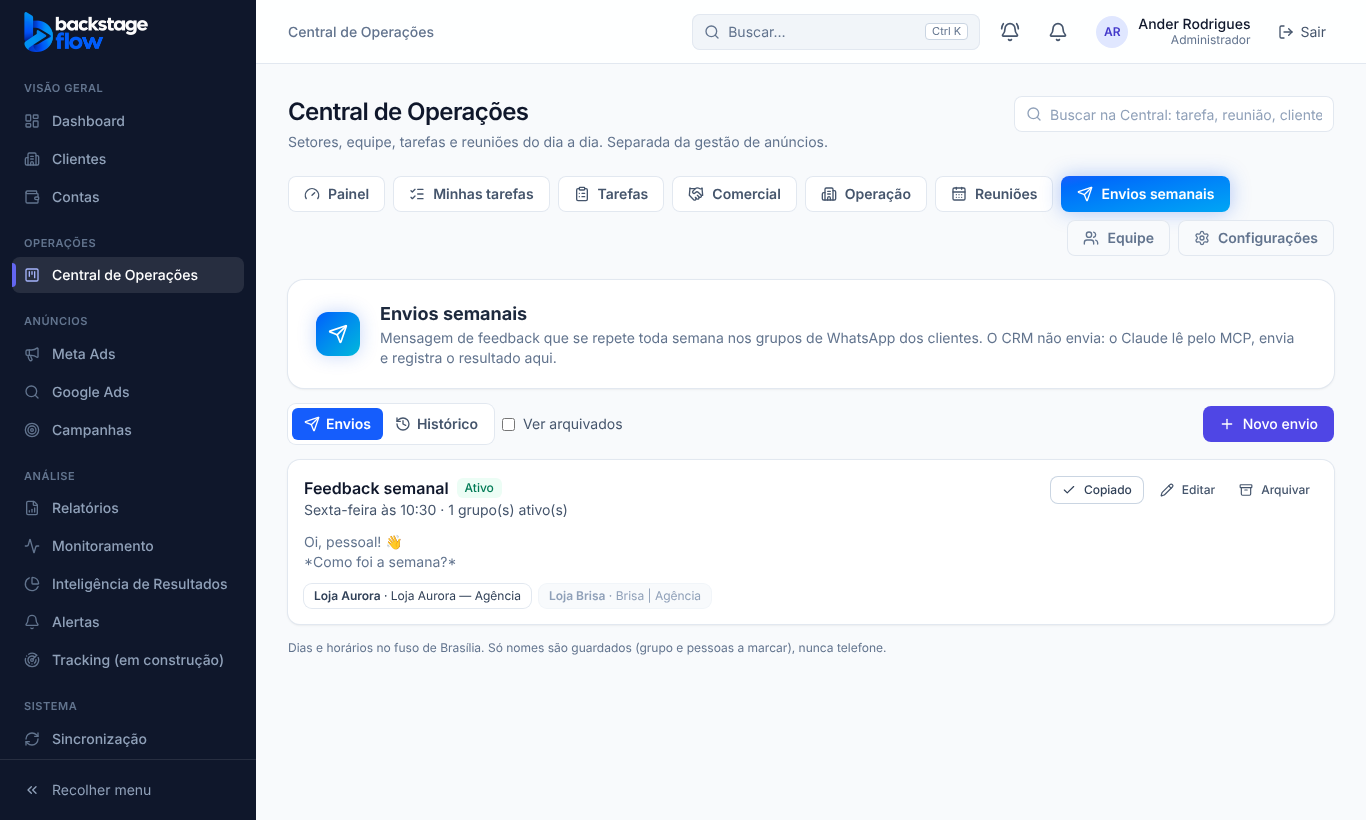
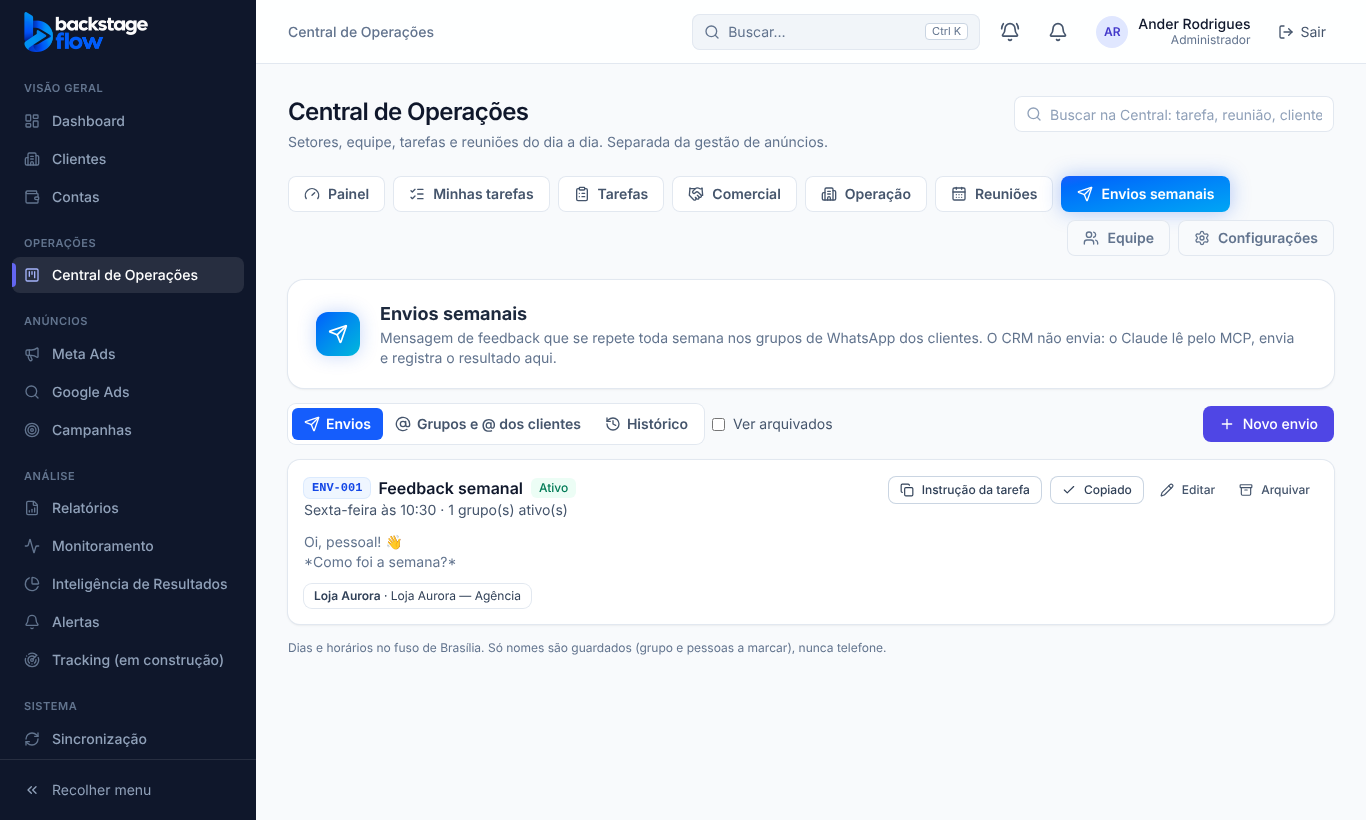
Etapa 41.5: código de cada envio (ENV-001) na instrução da tarefa; MCP 1.5.0
- ops_envios.codigo (ENV-001…, em sequência, fixo); ops_envio_list filtra por código
- MCP: backstage_list_envios aceita envio = "ENV-001" e avisa quando aquele envio não está liberado (função mcp v7)
- Tela: código no card e botão "Instrução da tarefa" por envio; instrução geral removida
- Testes SQL (41.5 novo; os de 41.x devolvem a sequência no fim), Deno, regras e navegador; documentação

Claude-Session: https://claude.ai/code/session_01A5ivfSd6VbkwRJFYwrhVNk

diff --git a/apps/web/src/features/operations/EnviosPage.tsx b/apps/web/src/features/operations/EnviosPage.tsx
@@ -1,5 +1,5 @@
 import {
-  buildEnvioCommand, cleanContacts, cleanDesligados, ENVIO_AGENT_INSTRUCTION, ENVIO_LIMITS, ENVIO_STATUS_LABELS, ENVIO_STATUSES, ENVIO_WEEKDAYS, type EnvioClienteInput, type EnvioStatus,
+  buildEnvioCommand, cleanContacts, cleanDesligados, ENVIO_LIMITS, envioAgentInstruction, ENVIO_STATUS_LABELS, ENVIO_STATUSES, ENVIO_WEEKDAYS, type EnvioClienteInput, type EnvioStatus,
   validateEnvio,
 } from "@backstage/shared";
 import { ArrowDown, ArrowUp, Archive, ArchiveRestore, AtSign, Check, Copy, History, Pencil, Plus, Search, Send, X } from "lucide-react";
@@ -233,17 +233,17 @@ function CopyCommand({ envio }: { envio: OpsEnvio }) {
   );
 }
 
-/** 41.2: a instrução fixa para colar na tarefa agendada do Claude no computador (ver a documentação da fase). */
-function CopyAgentInstruction() {
+/** 41.2/41.5: a instrução da tarefa agendada DESTE envio (leva o código dele). Ver a documentação da fase 41.5. */
+function CopyAgentInstruction({ envio }: { envio: OpsEnvio }) {
   const [copied, setCopied] = useState<"ok" | "erro" | null>(null);
   async function copy() {
-    try { await navigator.clipboard.writeText(ENVIO_AGENT_INSTRUCTION); setCopied("ok"); } catch { setCopied("erro"); }
+    try { await navigator.clipboard.writeText(envioAgentInstruction(envio.codigo, envio.nome)); setCopied("ok"); } catch { setCopied("erro"); }
     setTimeout(() => setCopied(null), 2500);
   }
   return (
-    <Button variant="secondary" onClick={copy} aria-label="Copiar instrução da tarefa agendada">
-      {copied === "ok" ? <Check className="size-4" aria-hidden /> : <Copy className="size-4" aria-hidden />}
-      {copied === "ok" ? "Instrução copiada" : copied === "erro" ? "Não deu para copiar" : "Instrução da tarefa agendada"}
+    <Button variant="secondary" className="px-3 py-1.5 text-xs" onClick={copy} aria-label={`Copiar instrução da tarefa de ${envio.nome}`}>
+      {copied === "ok" ? <Check className="size-3.5" aria-hidden /> : <Copy className="size-3.5" aria-hidden />}
+      {copied === "ok" ? "Instrução copiada" : copied === "erro" ? "Não deu para copiar" : "Instrução da tarefa"}
     </Button>
   );
 }
@@ -265,6 +265,8 @@ function EnvioCard({ envio, onEdit }: { envio: OpsEnvio; onEdit: () => void }) {
       <div className="flex flex-wrap items-start gap-3">
         <div className="min-w-0 flex-1">
           <div className="flex flex-wrap items-center gap-2">
+            <span className="rounded-md bg-blue-50 px-2 py-0.5 font-mono text-xs font-semibold text-blue-700 ring-1 ring-blue-100" data-testid="envio-codigo"
+              title="Identificação do envio: vai na instrução da tarefa agendada">{envio.codigo}</span>
             <h3 className="font-semibold text-slate-900">{envio.nome}</h3>
             {arquivado ? <Badge>Arquivado</Badge> : envio.ativo ? <Badge tone="success">Ativo</Badge> : <Badge tone="warning">Pausado</Badge>}
             {!arquivado && sit && <Badge tone={sit.tone}>{sit.label}</Badge>}
@@ -276,6 +278,7 @@ function EnvioCard({ envio, onEdit }: { envio: OpsEnvio; onEdit: () => void }) {
             <Button className="px-3 py-1.5 text-xs" variant={envio.situacao_hoje === "aguardando_aprovacao" ? "primary" : "secondary"} onClick={() => setReviewing(true)}
               aria-label={`Revisar e aprovar ${envio.nome}`}>Revisar e aprovar</Button>
           )}
+          {!arquivado && <CopyAgentInstruction envio={envio} />}
           {!arquivado && <CopyCommand envio={envio} />}
           {!arquivado && <Button variant="ghost" className="px-2 py-1 text-xs" onClick={onEdit} aria-label={`Editar ${envio.nome}`}><Pencil className="size-3.5" aria-hidden /> Editar</Button>}
           <Button variant="ghost" className="px-2 py-1 text-xs" onClick={toggleArchive} loading={archive.isPending} aria-label={`${arquivado ? "Desarquivar" : "Arquivar"} ${envio.nome}`}>
@@ -540,7 +543,6 @@ export function EnviosPage() {
         {view === "envios" && <label className="flex items-center gap-2 text-sm text-slate-600"><input type="checkbox" checked={arquivados} onChange={(e) => setArquivados(e.target.checked)} /> Ver arquivados</label>}
         {view === "envios" && !arquivados && (
           <div className="ml-auto flex flex-wrap gap-2">
-            <CopyAgentInstruction />
             <Button onClick={() => setEditing(null)} disabled={ctx.loading}><Plus className="size-4" aria-hidden /> Novo envio</Button>
           </div>
         )}

diff --git a/supabase/functions/mcp/envios_tools.ts b/supabase/functions/mcp/envios_tools.ts
@@ -25,6 +25,8 @@ interface EnvioCliente {
 }
 interface Envio {
   id: string;
+  /** 41.5: identificação curta (ENV-001). */
+  codigo?: string;
   nome: string;
   mensagem: string;
   dia_semana: number;
@@ -51,6 +53,7 @@ function envioOut(e: Envio, soPendentes: boolean) {
   const grupos = e.clientes.filter((c) => c.ativo && (!soPendentes || !c.ja_enviado_nesta_semana));
   return {
     envio_id: e.id,
+    codigo: e.codigo ?? null,
     nome: e.nome,
     quando: `${WEEKDAYS[e.dia_semana]} às ${e.horario} (Brasília)`,
     versao: e.versao,
@@ -84,20 +87,35 @@ export const ENVIO_TOOLS: ToolSpec[] = [
   {
     name: "backstage_list_envios",
     title: "Envios semanais (mensagens para grupos de WhatsApp)",
-    description: "Lista os envios semanais ativos: mensagem, dia e horário, situação de hoje (aprovado ou não), e para cada grupo ativo o nome exato do grupo e quem marcar, na ordem. "
+    description: "Lista os envios semanais ativos: código (ENV-001), mensagem, dia e horário, situação de hoje (aprovado ou não), e para cada grupo ativo o nome exato do grupo e quem marcar, na ordem. "
+      + "Use envio = \"ENV-001\" para trazer só aquele envio (é o que a tarefa agendada de cada envio faz). "
       + "Use liberados_agora = true para receber só o que está aprovado e no horário, e só os grupos que ainda não receberam nesta semana (econômico).",
-    input: { liberados_agora: z.boolean().optional().describe("true = só o que pode ser enviado agora (aprovado nesta semana e no horário).") },
+    input: {
+      envio: z.string().trim().min(1).max(60).optional().describe("Código do envio (ex.: ENV-001). Com ele, só esse envio."),
+      liberados_agora: z.boolean().optional().describe("true = só o que pode ser enviado agora (aprovado nesta semana e no horário)."),
+    },
     allowed: has("ops.envios"),
     async run(ctx, a) {
       const liberados = a.liberados_agora === true;
-      const r = (await ctx.data.opsRpc("ops_envio_list", { f: { so_ativos: true } })) as { hoje?: { data?: string; hora?: string }; envios?: Envio[] } | null;
-      const envios = (r?.envios ?? []).filter((e) => !liberados || e.pode_enviar_agora);
+      const codigo = typeof a.envio === "string" ? a.envio.trim().toUpperCase() : "";
+      const r = (await ctx.data.opsRpc("ops_envio_list", { f: { so_ativos: true, ...(codigo ? { codigo } : {}) } })) as
+        { hoje?: { data?: string; hora?: string }; envios?: Envio[] } | null;
+      const todos = r?.envios ?? [];
+      const envios = todos.filter((e) => !liberados || e.pode_enviar_agora);
       const out = envios.map((e) => envioOut(e, liberados)).filter((e) => !liberados || e.grupos.length > 0);
+      let aviso: string | undefined;
+      if (codigo && todos.length === 0) aviso = `Envio ${codigo} não encontrado, pausado ou arquivado. Não envie nada.`;
+      else if (liberados && out.length === 0) {
+        aviso = codigo && todos[0] && todos[0].pode_enviar_agora
+          ? `Todos os grupos do envio ${codigo} já receberam nesta semana. Não envie nada.`
+          : codigo && todos[0] ? `O envio ${codigo} não está liberado agora (${SITUACAO[todos[0].situacao_hoje] ?? todos[0].situacao_hoje}). Não envie nada.`
+          : "Nada liberado para enviar agora. Não envie nada.";
+      }
       return {
         agora_em_brasilia: r?.hoje ? `${r.hoje.data} ${r.hoje.hora}` : null,
         total: out.length,
         envios: out,
-        ...(liberados && out.length === 0 ? { aviso: "Nada liberado para enviar agora. Não envie nada." } : {}),
+        ...(aviso ? { aviso } : {}),
         como_enviar: COMO_ENVIAR,
         tela: link(),
       };

diff --git a/supabase/functions/mcp/mcp_test.ts b/supabase/functions/mcp/mcp_test.ts
@@ -159,7 +159,13 @@ function fakeData(user: Caller, opts: { slow?: boolean; broken?: boolean } = {},
       }
       if (name === "ops_meeting_save") return Promise.resolve(args.p_id ?? MEETING);
       if (name === "ops_meeting_item_to_task" || name === "ops_meeting_item_add") return Promise.resolve(TASK);
-      if (name === "ops_envio_list") return Promise.resolve({ hoje: { data: "2026-11-02", hora: "10:05" }, envios: [envioFake(ENVIO_OK, "Feedback", true), envioFake(ENVIO_ESPERA, "Outro", false)] });
+      if (name === "ops_envio_list") {
+        // 41.5: filtro pelo código do envio (como o banco)
+        const codigo = ((args.f as Record<string, unknown> | undefined)?.codigo as string | undefined) ?? "";
+        const envios = [{ ...envioFake(ENVIO_OK, "Feedback", true), codigo: "ENV-001" }, { ...envioFake(ENVIO_ESPERA, "Outro", false), codigo: "ENV-002" }]
+          .filter((e) => !codigo || e.codigo === codigo);
+        return Promise.resolve({ hoje: { data: "2026-11-02", hora: "10:05" }, envios });
+      }
       if (name === "ops_envio_get") return Promise.resolve(args.p_id === ENVIO_OK ? envioFake(ENVIO_OK, "Feedback", true) : null);
       if (name === "ops_envio_execucao_add") {
         return args.p_status === "enviado" && args.p_envio === ENVIO_ESPERA
@@ -263,7 +269,7 @@ Deno.test("status: sem segredos; banco fora do ar aparece como indisponível", a
   const s = json(await client.callTool({ name: "backstage_status", arguments: {} }));
   assertEquals(s.sistema, "Backstage Flow");
   assertEquals(s.banco.estado, "funcionando");
-  assertEquals(s.servidor_mcp.versao, "1.4.0");
+  assertEquals(s.servidor_mcp.versao, "1.5.0");
   assert(!/key|secret|token|senha|password/i.test(JSON.stringify(s)), "sem segredos");
   assertEquals(logs.at(-1)?.tool, "backstage_status");
   assertEquals(logs.at(-1)?.ok, true);
@@ -652,6 +658,20 @@ Deno.test("Envios semanais: só o liberado (aprovado e no horário), grupos pend
   assert(!names.some((n: string) => /aprov|decid/.test(n)), "aprovar é só na tela do CRM");
   const cap = json(await client.callTool({ name: "backstage_capabilities", arguments: {} }));
   assert(cap.modulos_liberados_no_crm.includes("Envios semanais (grupos de WhatsApp)"));
+  await client.close();
+});
+
+Deno.test("Envios semanais (41.5): a tarefa de cada envio busca só o código dela", async () => {
+  const central = newCentral();
+  const { client } = await connect("tok-admin", {}, central);
+  const um = json(await client.callTool({ name: "backstage_list_envios", arguments: { envio: "env-001", liberados_agora: true } }));
+  assertEquals([um.total, um.envios[0].codigo, um.envios[0].envio_id], [1, "ENV-001", ENVIO_OK]);
+  assertEquals((central.calls.filter((c) => c.name === "ops_envio_list").at(-1)!.args.f as Record<string, unknown>).codigo, "ENV-001");
+  const espera = json(await client.callTool({ name: "backstage_list_envios", arguments: { envio: "ENV-002", liberados_agora: true } }));
+  assertEquals(espera.total, 0);
+  assertMatch(espera.aviso, /ENV-002 não está liberado agora.*Não envie nada/);
+  const nada = json(await client.callTool({ name: "backstage_list_envios", arguments: { envio: "ENV-999", liberados_agora: true } }));
+  assertMatch(nada.aviso, /ENV-999 não encontrado/);
   await client.close();
 });
 

diff --git a/packages/shared/src/operations/envios.ts b/packages/shared/src/operations/envios.ts
@@ -145,18 +145,21 @@ export function parseWhatsApp(text: string): WaSegment[][] {
 }
 
 /**
- * Etapa 41.2: instrução fixa da tarefa agendada no computador da pessoa (app do Claude + Claude no Chrome + WhatsApp Web
- * + conector do Backstage Flow). Curta e sempre igual: se não houver nada liberado, para na primeira consulta (gasta pouco).
+ * Etapa 41.2/41.5: instrução da tarefa agendada no computador da pessoa (app do Claude + Claude no Chrome + WhatsApp Web
+ * + conector do Backstage Flow). Uma tarefa por envio: a instrução leva o código do envio (ENV-001) e só trata dele.
+ * Curta: se o envio não estiver liberado, para na primeira consulta (gasta pouco). O conteúdo vem sempre do CRM.
  */
-export const ENVIO_AGENT_INSTRUCTION = [
-  "Você é o agente dos Envios semanais do Backstage Flow. Siga exatamente estes passos:",
-  "1. Chame a ferramenta backstage_list_envios com liberados_agora = true.",
-  "2. Se a lista vier vazia (total 0), responda apenas \"Nada liberado para enviar agora\" e pare. Não abra o navegador.",
-  "3. Para cada envio da lista e cada grupo dele: abra o WhatsApp Web (web.whatsapp.com) no Chrome, procure o grupo pelo nome exato (nome_grupo),",
-  "   cole a mensagem exatamente como veio (com as quebras de linha e emojis) e envie. Logo depois, numa SEGUNDA mensagem,",
-  "   marque as pessoas de marcar_na_ordem, na ordem: digite @ e o nome e escolha a pessoa na lista que aparece. Envie.",
-  "4. Depois de cada grupo, registre o resultado com backstage_registrar_execucao_envio (envio_id, cliente_id, status):",
-  "   enviado; falhou (com o motivo, ex.: grupo não encontrado, pessoa não encontrada para marcar); ou pulado.",
-  "5. Não envie nada que não esteja nessa lista, não responda nem leia outras conversas e não altere nada no WhatsApp.",
-  "6. No fim, responda com um resumo curto: quantos grupos enviados, falhados e pulados.",
-].join("\n");
+export function envioAgentInstruction(codigo: string, nome: string): string {
+  return [
+    `Você é o agente do envio ${codigo} ("${nome}") dos Envios semanais do Backstage Flow. Siga exatamente estes passos:`,
+    `1. Chame a ferramenta backstage_list_envios com envio = "${codigo}" e liberados_agora = true.`,
+    "2. Se a lista vier vazia (total 0), responda apenas com o aviso que veio e pare. Não abra o navegador.",
+    `3. Trate SOMENTE o envio ${codigo}. Para cada grupo dele: abra o WhatsApp Web (web.whatsapp.com) no Chrome, procure o grupo pelo nome exato (nome_grupo),`,
+    "   cole a mensagem exatamente como veio (com as quebras de linha e emojis) e envie. Logo depois, numa SEGUNDA mensagem,",
+    "   marque as pessoas de marcar_na_ordem, na ordem: digite @ e o nome e escolha a pessoa na lista que aparece. Envie.",
+    "4. Depois de cada grupo, registre o resultado com backstage_registrar_execucao_envio (envio_id, cliente_id, status):",
+    "   enviado; falhou (com o motivo, ex.: grupo não encontrado, pessoa não encontrada para marcar); ou pulado.",
+    "5. Não envie nada que não esteja nessa lista, não responda nem leia outras conversas e não altere nada no WhatsApp.",
+    `6. No fim, responda com um resumo curto do envio ${codigo}: quantos grupos enviados, falhados e pulados.`,
+  ].join("\n");
+}

diff --git a/apps/web/src/demo/mockOpsEnvios.js b/apps/web/src/demo/mockOpsEnvios.js
@@ -45,8 +45,16 @@ export function handleOpsEnvios({ db, url, parse, userId, opsPerms, res }) {
       aprovacao: a ? { decisao: a.decisao, versao_envio: a.versao_envio, decidido_em: a.decidido_em, decidido_por_nome: name(a.decidido_por), origem: a.origem, valida } : null };
   };
 
+  // 41.5: código curto do envio (ENV-001…), em sequência; envios semeados nos testes ganham o seu na primeira leitura
+  const codigoDe = (e) => {
+    if (!e.codigo) {
+      const max = Math.max(0, ...db.opsEnvios.map((x) => Number(String(x.codigo ?? "").slice(4)) || 0));
+      e.codigo = `ENV-${String(max + 1).padStart(3, "0")}`;
+    }
+    return e.codigo;
+  };
   const json = (e, soAtivos) => ({
-    ...e, ...situacao(e), criado_por_nome: name(e.criado_por), atualizado_por_nome: name(e.atualizado_por), toca_hoje: e.dia_semana === now.dow,
+    ...e, codigo: codigoDe(e), ...situacao(e), criado_por_nome: name(e.criado_por), atualizado_por_nome: name(e.atualizado_por), toca_hoje: e.dia_semana === now.dow,
     clientes: db.opsEnvioClientes.filter((c) => c.envio_id === e.id && !c.removido_em && (!soAtivos || c.ativo)).map((c) => {
       const ex = db.opsEnvioExecucoes.filter((x) => x.envio_id === e.id && x.cliente_id === c.cliente_id).sort((a, b) => b.executado_em.localeCompare(a.executado_em));
       // 41.4: grupo e @ vêm sempre da configuração atual do cliente (Grupos e @), quando existe
@@ -99,7 +107,8 @@ export function handleOpsEnvios({ db, url, parse, userId, opsPerms, res }) {
   }
   if (rpc("ops_envio_list")) {
     const f = p.f ?? {};
-    const out = db.opsEnvios.filter((e) => (f.arquivados ? e.arquivado_em : !e.arquivado_em) && (!f.so_ativos || e.ativo))
+    const cod = String(f.codigo ?? "").trim().toUpperCase();
+    const out = db.opsEnvios.filter((e) => (f.arquivados ? e.arquivado_em : !e.arquivado_em) && (!f.so_ativos || e.ativo) && (!cod || codigoDe(e) === cod || e.id === cod.toLowerCase()))
       .sort((a, b) => a.dia_semana - b.dia_semana || a.horario.localeCompare(b.horario) || a.nome.localeCompare(b.nome)).map((e) => json(e, f.so_ativos));
     return res(200, { hoje: { dia_semana: now.dow, inicio_semana: now.weekStart }, envios: out });
   }
@@ -152,6 +161,7 @@ export function handleOpsEnvios({ db, url, parse, userId, opsPerms, res }) {
     if (!p.p_id) {
       e = { id: crypto.randomUUID(), nome, mensagem: msg, dia_semana: i.dia_semana, horario: i.horario, ativo: i.ativo !== false, arquivado_em: null, versao: 1,
         criado_por: userId, atualizado_por: userId, created_at: t, updated_at: t };
+      codigoDe(e);
       db.opsEnvios.push(e);
     } else {
       e = db.opsEnvios.find((x) => x.id === p.p_id);

diff --git a/supabase/functions/mcp/guide.ts b/supabase/functions/mcp/guide.ts
@@ -19,7 +19,7 @@ export function guide(user: Caller, tools: ToolSpec[]): string {
     "## Regras",
     "- Escrita só na Central de Operações (tarefas, onboarding dos clientes, leads do Comercial, reuniões e, para o administrador, setores, status, colunas e tipos) e no Monitoramento (tratar alertas, regras, gravidade mínima), com as mesmas permissões do site. O histórico mostra o que foi feito \"via MCP\". Nada é apagado: arquivar e desativar são reversíveis.",
     "- Contatos dos leads (nome do contato, telefone, e-mail, CNPJ): podem ser gravados quando a pessoa ditar, mas nunca são mostrados de volta. Converter lead em cliente só pelo site. Não guarde conversas de WhatsApp: resuma.",
-    "- Envios semanais (grupos de WhatsApp): o CRM não envia. Envie só o que backstage_list_envios devolver com pode_enviar_agora = true (aprovado no CRM nesta semana) e registre cada grupo com backstage_registrar_execucao_envio. Aprovar é só na tela do CRM.",
+    "- Envios semanais (grupos de WhatsApp): o CRM não envia. Cada envio tem um código (ENV-001); a tarefa agendada de cada envio passa esse código em backstage_list_envios (envio) e trata só ele. Envie só o que vier com pode_enviar_agora = true (aprovado no CRM nesta semana) e registre cada grupo com backstage_registrar_execucao_envio. Aprovar é só na tela do CRM.",
     "- Nenhuma ferramenta altera o cadastro dos clientes, campanhas, orçamentos, saldos, usuários, permissões ou integrações, nem mexe no Meta ou no Google. Registrar uma providência num alerta não mexe no anúncio.",
     "- Antes de editar, leia a versão (backstage_get_task, backstage_get_alert, backstage_get_client_ops, backstage_get_lead, backstage_get_meeting); se alguém mudou no meio, a edição é recusada.",
     "- Números só das APIs oficiais (Meta, Google) já guardados no CRM. Se faltar um dado: \"Informação não disponível pela API\". Nunca estimar.",

diff --git a/packages/shared/src/operations/envios.test.ts b/packages/shared/src/operations/envios.test.ts
@@ -1,5 +1,5 @@
 import { describe, expect, it } from "vitest";
-import { buildEnvioCommand, cleanContacts, cleanDesligados, contatosLigados, ENVIO_AGENT_INSTRUCTION, type EnvioInput, looksLikePhone, parseWhatsApp, validateEnvio } from "./envios.ts";
+import { buildEnvioCommand, cleanContacts, cleanDesligados, contatosLigados, envioAgentInstruction, type EnvioInput, looksLikePhone, parseWhatsApp, validateEnvio } from "./envios.ts";
 
 const base = (): EnvioInput => ({
   nome: "Feedback semanal",
@@ -79,12 +79,15 @@ describe("parseWhatsApp", () => {
   });
 });
 
-describe("instrução da tarefa agendada (41.2)", () => {
-  it("consulta só o liberado, para cedo quando não há nada e registra cada grupo", () => {
-    expect(ENVIO_AGENT_INSTRUCTION).toContain("backstage_list_envios com liberados_agora = true");
-    expect(ENVIO_AGENT_INSTRUCTION).toMatch(/vier vazia.*pare/);
-    expect(ENVIO_AGENT_INSTRUCTION).toContain("SEGUNDA mensagem");
-    expect(ENVIO_AGENT_INSTRUCTION).toContain("backstage_registrar_execucao_envio");
+describe("instrução da tarefa agendada (41.2/41.5)", () => {
+  it("uma por envio: busca só o código dele, para cedo quando não está liberado e registra cada grupo", () => {
+    const t = envioAgentInstruction("ENV-007", "Feedback semanal");
+    expect(t).toContain('backstage_list_envios com envio = "ENV-007" e liberados_agora = true');
+    expect(t).toContain("Trate SOMENTE o envio ENV-007");
+    expect(t).toMatch(/vier vazia.*pare/);
+    expect(t).toContain("SEGUNDA mensagem");
+    expect(t).toContain("backstage_registrar_execucao_envio");
+    expect(t).not.toContain("ENV-001");
   });
 });
 

diff --git a/supabase/functions/mcp/server.ts b/supabase/functions/mcp/server.ts
@@ -87,7 +87,7 @@ export function buildServer(
         "CRM Backstage Flow (agência de tráfego pago). Métricas e campanhas são só leitura. Dá para mexer, com as permissões da pessoa, " +
         "na Central de Operações (tarefas, onboarding dos clientes, Comercial/leads, reuniões e, administrador, configurações) e no Monitoramento (tratar alertas, regras). " +
         "Contatos dos leads (nome do contato, telefone, e-mail, CNPJ) podem ser gravados quando a pessoa ditar, mas nunca são mostrados. " +
-        "Envios semanais para grupos de WhatsApp: só envie o que backstage_list_envios (liberados_agora) devolver como aprovado, e registre cada grupo. " +
+        "Envios semanais para grupos de WhatsApp: só envie o que backstage_list_envios (envio = código do envio, liberados_agora) devolver como aprovado, e registre cada grupo. " +
         "Antes de criar ou editar, leia os IDs em backstage_central_reference e a versão no item (get). Respeite as moedas separadas e não invente números. " +
         "Leia o recurso backstage://guia para as regras.",
     },

diff --git a/apps/web/src/features/operations/enviosApi.ts b/apps/web/src/features/operations/enviosApi.ts
@@ -53,6 +53,8 @@ export interface OpsEnvioAprovacao {
 
 export interface OpsEnvio {
   id: string;
+  /** 41.5: identificação curta (ENV-001), usada na instrução da tarefa agendada. */
+  codigo: string;
   nome: string;
   mensagem: string;
   dia_semana: number;

diff --git a/supabase/functions/mcp/tools.ts b/supabase/functions/mcp/tools.ts
@@ -11,7 +11,7 @@ import { type DataPort, type SummaryRow } from "./data.ts";
  */
 
 export const MCP_NAME = "backstage-flow";
-export const MCP_VERSION = "1.4.0";
+export const MCP_VERSION = "1.5.0";
 export const MAX_DAYS = 400;
 
 export interface Caller {

diff --git a/docs/etapa-41-envios-semanais/41.5-CODIGO-DO-ENVIO.md b/docs/etapa-41-envios-semanais/41.5-CODIGO-DO-ENVIO.md
@@ -1,0 +1,52 @@
+# Etapa 41.5 — Código de cada envio (ENV-001) na instrução da tarefa
+
+**Data:** 28/10/2026.
+
+**Pedido do Ander:** cada envio ter uma identificação própria, que vai junto quando ele copia a instrução para a tarefa do Claude. Assim cada tarefa busca só aquele envio. Respostas: "1 - A" (código curto em sequência) e "2 - A" (sai a instrução geral, fica só a de cada envio).
+
+## 1. Como ficou
+- **Código fixo:** cada envio ganha um código curto (**ENV-001**, **ENV-002**…), que aparece no card do envio. O código nunca muda, nem quando o envio é editado.
+- **Botão "Instrução da tarefa" em cada card:** a instrução copiada já leva o código (ex.: "busque o envio ENV-001… trate SOMENTE o envio ENV-001").
+- **O botão geral "Instrução da tarefa agendada" saiu.**
+- **Uma tarefa no Claude por envio:** quando roda, a tarefa pergunta ao CRM só por aquele código.
+  - **Aprovado e no horário:** envia nos grupos daquele envio, com a mensagem e os @ que estiverem no CRM naquele momento.
+  - **Senão:** recebe um aviso ("não é dia deste envio", "não aprovado", "todos já receberam") e para sem abrir o WhatsApp.
+
+![Card com o código e o botão da instrução](envios-lista.png)
+
+## 2. Dia e horário
+- **O conteúdo vem sempre do CRM:** mensagem, grupos e @.
+- **O dia e o horário da tarefa ficam no app do Claude.** Se mudar o dia ou o horário do envio no CRM, mude também na tarefa daquele código. A outra opção é a tarefa rodar todo dia: nos dias sem envio, ela para na hora.
+
+## 3. Banco
+- **Campo novo `ops_envios.codigo`:** único, nunca muda, criado em sequência por `ops_envios_codigo_seq`.
+  - **Guardado:** junto com o envio, para sempre.
+  - **O envio que já existia ("Envio Relatório Semanal")** ficou **ENV-001**.
+- **`ops_envio_list`:** aceita `codigo` (maiúscula ou minúscula, ou o ID longo).
+- **`ops_envio_get` e o pop-up:** passam a devolver o código.
+
+Não há tabela nova.
+
+## 4. Servidor do Claude (MCP 1.5.0, função `mcp` versão 7)
+- **`backstage_list_envios`:** aceita `envio = "ENV-001"`. Devolve o código em cada envio e um aviso claro quando aquele envio não está liberado, não existe ou está pausado.
+- **Guia e instruções do servidor:** explicam o código.
+
+## 5. Testes
+- **Banco:** `supabase/tests/etapa41_5_envios_codigo.sql`: 3 verificações OK.
+  - Códigos em sequência e diferentes.
+  - Filtro por código (maiúscula ou minúscula) e pelo ID longo; código inexistente.
+  - O código não muda ao editar.
+  - O teste devolve a sequência ao número certo no fim, porque a sequência não volta com a transação desfeita.
+- **Servidor:** 166 testes (1 novo: só o código pedido, aviso "não está liberado", aviso "não encontrado").
+- **Regras compartilhadas:** instrução com o código (`envioAgentInstruction`).
+- **Navegador:** `ops-envios-aprovacao.mjs` confere o código ENV-001 no card, que a instrução geral sumiu e a instrução copiada com o código.
+- **Ao vivo (servidor publicado):**
+  - `backstage_list_envios` com `envio = "env-001"` trouxe só o ENV-001;
+  - com `liberados_agora` respondeu "não é dia deste envio… Não envie nada";
+  - o histórico mostra que os 22 grupos receberam o envio em 28/10, entre 8h50 e 9h05.
+
+## 6. Arquivos
+- **Banco:** `supabase/migrations/20261028131250_envios_codigo.sql`, `supabase/tests/etapa41_5_envios_codigo.sql`.
+- **Servidor:** `supabase/functions/mcp/envios_tools.ts`, `tools.ts`, `guide.ts`, `server.ts`, `mcp_test.ts`.
+- **Site:** `EnviosPage.tsx`, `enviosApi.ts` e o simulador `mockOpsEnvios.js`.
+- **Regras compartilhadas:** `envios.ts` (`envioAgentInstruction` no lugar de `ENVIO_AGENT_INSTRUCTION`).

diff --git a/docs/claude/ESTADO-ATUAL.md b/docs/claude/ESTADO-ATUAL.md
@@ -97,4 +97,5 @@ A lista completa está em [`docs/PENDENCIAS.md`](../PENDENCIAS.md). Lembre nos r
 - **27/10/2026 — Etapa 41.2 (aprovação + MCP):** `ops_envio_aprovacoes` (único envio+semana; aprovado/recusado/sem_resposta; versao_envio), `private.envio_situacao` (nao_hoje/antes_da_janela/aguardando_aprovacao 7h→horário/aprovado/recusado/nao_aprovado_a_tempo, pode_enviar_agora), `ops_envio_pendentes/decidir/aprovacoes`, cron `envios-sem-resposta` (*/15). `ops_envio_execucao_add`: "enviado" via MCP exige aprovação válida. Tela: `EnvioApproval.tsx` (pop-up global no AppLayout para quem tem ops.envios; "Decidir depois" = 30 min em localStorage), `WhatsAppPreview.tsx`. MCP v6 (1.4.0): `envios_tools.ts` (`backstage_list_envios` com `liberados_agora`, `backstage_get_envio`, `backstage_registrar_execucao_envio`; sem ferramenta de aprovar). Instrução da tarefa agendada em `ENVIO_AGENT_INSTRUCTION` (botão na tela). **Falta:** Ander definir a mensagem, o dia e o horário do envio "Feedback semanal" (já criado, pausado, com os 25 grupos) e criar a tarefa agendada no app do Claude do computador (Claude no Chrome + WhatsApp Web). Doc `docs/etapa-41-envios-semanais/41.2-APROVACAO-E-MCP.md`.
 - **27/10/2026 — Etapa 41.3 (grupo e @ padrão):** tabela `ops_envio_padroes` (1 linha por cliente: nome_grupo, contatos_marcar = todos na ordem, contatos_desligados), coluna `ops_envio_clientes.contatos_desligados`. `private.envio_json`: `contatos_marcar` = só os ligados (MCP, pop-up e comando usam essa), `contatos` = [{nome, ativo}] (tela). Salvar envio grava o padrão (`private.envio_padrao_gravar`, audit `ops.envio.padrao` só com quantidades); `ops_envio_padrao_save` leva o padrão aos envios não arquivados (versão nova = aprovação de novo); `ops_envio_padroes()` lista. Tela: visão "Grupos e @ dos clientes" (switch por @ salva na hora; Adicionar cliente; Editar), formulário preenche ao marcar o cliente e tem switch por @. Semente: os 25 grupos do envio "Feedback semanal". MCP sem mudança de código (não redeployado). Doc `docs/etapa-41-envios-semanais/41.3-GRUPOS-E-ARROBAS.md`.
 - **27/10/2026 — Etapa 41.4 (lista no envio):** formulário do envio só liga/desliga clientes (Selecionar todos / Tirar todos; Editar abre o `PadraoFormModal`); envio novo começa com todos os clientes com padrão, ligados. `envio_json` lê grupo/@ de `ops_envio_padroes` (ao vivo, `tem_padrao`); `ops_envio_save_impl` ignora grupo/@ do pedido para quem tem padrão. Testes SQL 41.1/41.3 usam clientes sem padrão. Envio real: "Feedback semanal" com 24 clientes, quarta 08:30 (Ander tirou Prata e Pérola em 27/10). Doc `41.4-LISTA-DE-CLIENTES-NO-ENVIO.md`.
+- **28/10/2026 — Etapa 41.5 (código do envio):** `ops_envios.codigo` (ENV-001…, sequência `ops_envios_codigo_seq`, único, fixo); `ops_envio_list` filtra por `codigo` (ou id); `private.envio_json_codigo`. MCP 1.5.0 (função `mcp` v7): `backstage_list_envios` com `envio`. Tela: código no card e botão "Instrução da tarefa" por envio (`envioAgentInstruction(codigo, nome)`); instrução geral removida. Envio real: ENV-001 "Envio Relatório Semanal", enviado aos 22 grupos em 28/10 (Ander depois mudou para terça 08:00). Testes SQL que criam envios consomem a sequência: o 41.5 a devolve no fim (setval). Doc `41.5-CODIGO-DO-ENVIO.md`.
 - **Teste que falha perto da meia-noite UTC:** `e2e/tracking.mjs` ("resumo do dia") cria uma visita de 20 min atrás; entre 00:00 e 00:20 UTC ela cai em "ontem". Rodar com `TZ=America/Sao_Paulo` ou fora desse horário. Não é falha do CRM.
